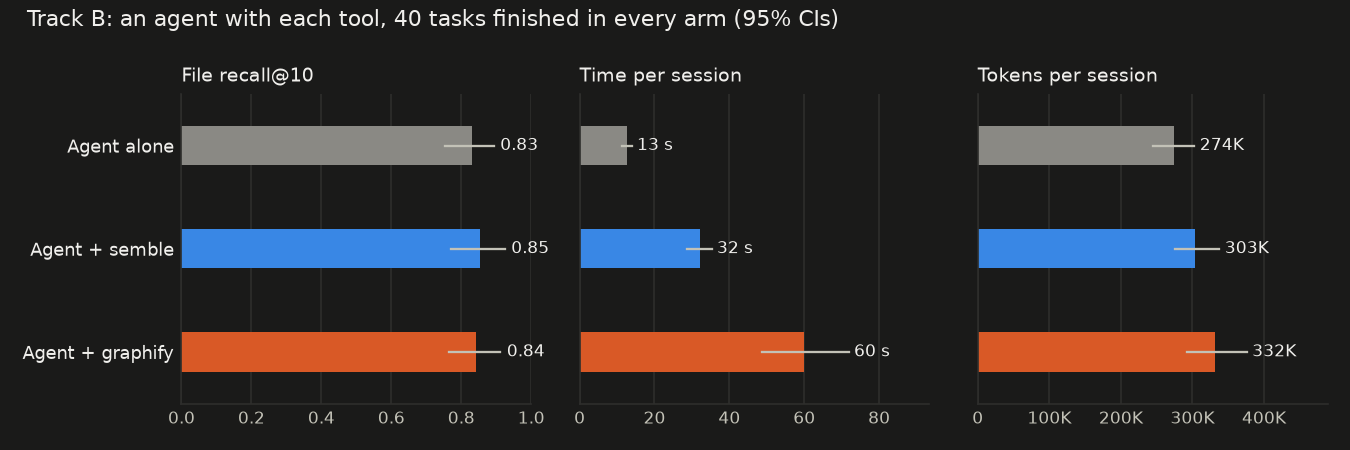
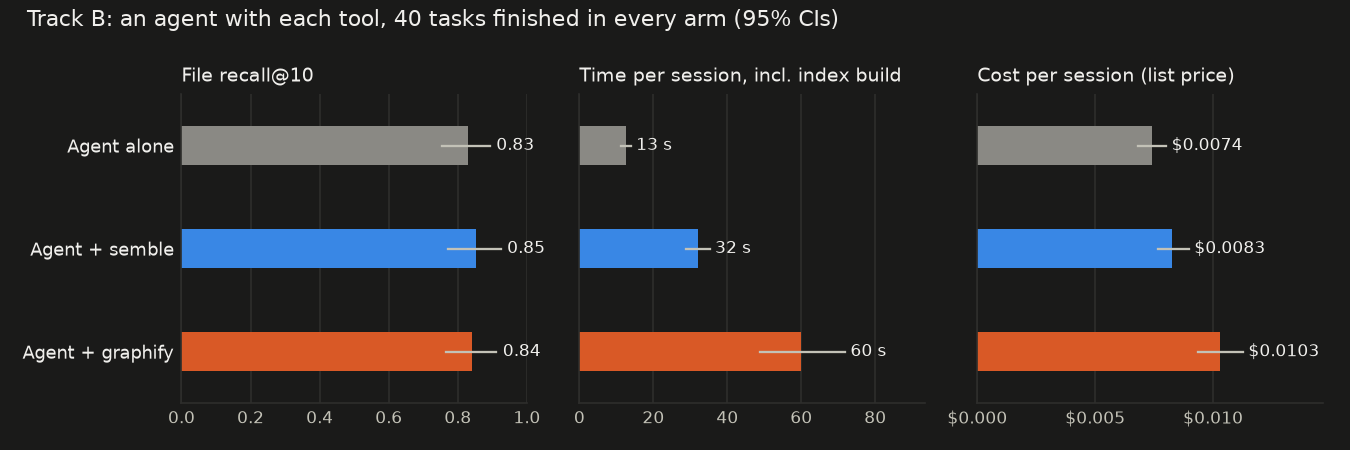
fix(plots): show track b cost per session instead of tokens

diff --git a/src/csbench/plots.py b/src/csbench/plots.py
@@ -138,8 +138,8 @@ OVERVIEW_RUNS = ("v1", "hard")
 TRACKB_RUN = "trackb-haiku"
 TRACKB_PANELS = (
     ("file_recall@10", "File recall@10", "{:.2f}"),
-    ("duration_s", "Time per session", "{:.0f} s"),
-    ("total_tokens", "Tokens per session", None),
+    ("duration_s", "Time per session, incl. index build", "{:.0f} s"),
+    ("cost_usd", "Cost per session (list price)", "${:.4f}"),
 )
 
 
@@ -285,14 +285,15 @@ def _trackb(records: list[dict], theme: dict, path: Path) -> None:
         _style(ax, theme)
         stats = [bootstrap_ci(np.array([by[a][t][key] for t in common], float)) for a in arms]
         means, lows, highs = (list(x) for x in zip(*stats, strict=True))
-        fmt = spec.format if spec else (lambda v: fmt_tokens(round(v, -3)))
+        fmt = spec.format
         labels, colors = [_arm_label(a) for a in arms], [color(theme, a) for a in arms]
         _hbars(ax, labels, means, lows, highs, theme, fmt, colors)
         ax.set_xlim(0, 1 if key == Y else max(highs) * 1.3)
-        if key == "total_tokens":
-            from matplotlib.ticker import FuncFormatter
+        if key == "cost_usd":
+            from matplotlib.ticker import FuncFormatter, MaxNLocator
 
-            ax.xaxis.set_major_formatter(FuncFormatter(fmt_tokens))
+            ax.xaxis.set_major_locator(MaxNLocator(nbins=3, steps=[1, 2, 5]))
+            ax.xaxis.set_major_formatter(FuncFormatter(lambda v, _pos: f"${v:.3f}"))
         ax.set_title(label, color=theme["text"], fontsize=9, loc="left")
     fig.suptitle(
         f"Track B: an agent with each tool, {len(common)} tasks finished in every arm (95% CIs)",

diff --git a/tests/test_plots.py b/tests/test_plots.py
@@ -40,7 +40,7 @@ def test_write_overview_uses_committed_results(tmp_path):
             "ok": True,
             "file_recall@10": 0.8,
             "duration_s": 10.0 + i,
-            "total_tokens": 200000.0 + i,
+            "cost_usd": 0.007 + i / 1000,
         }
         for arm in ("baseline", "semble")
         for i, t in enumerate(("t1", "t2"))
